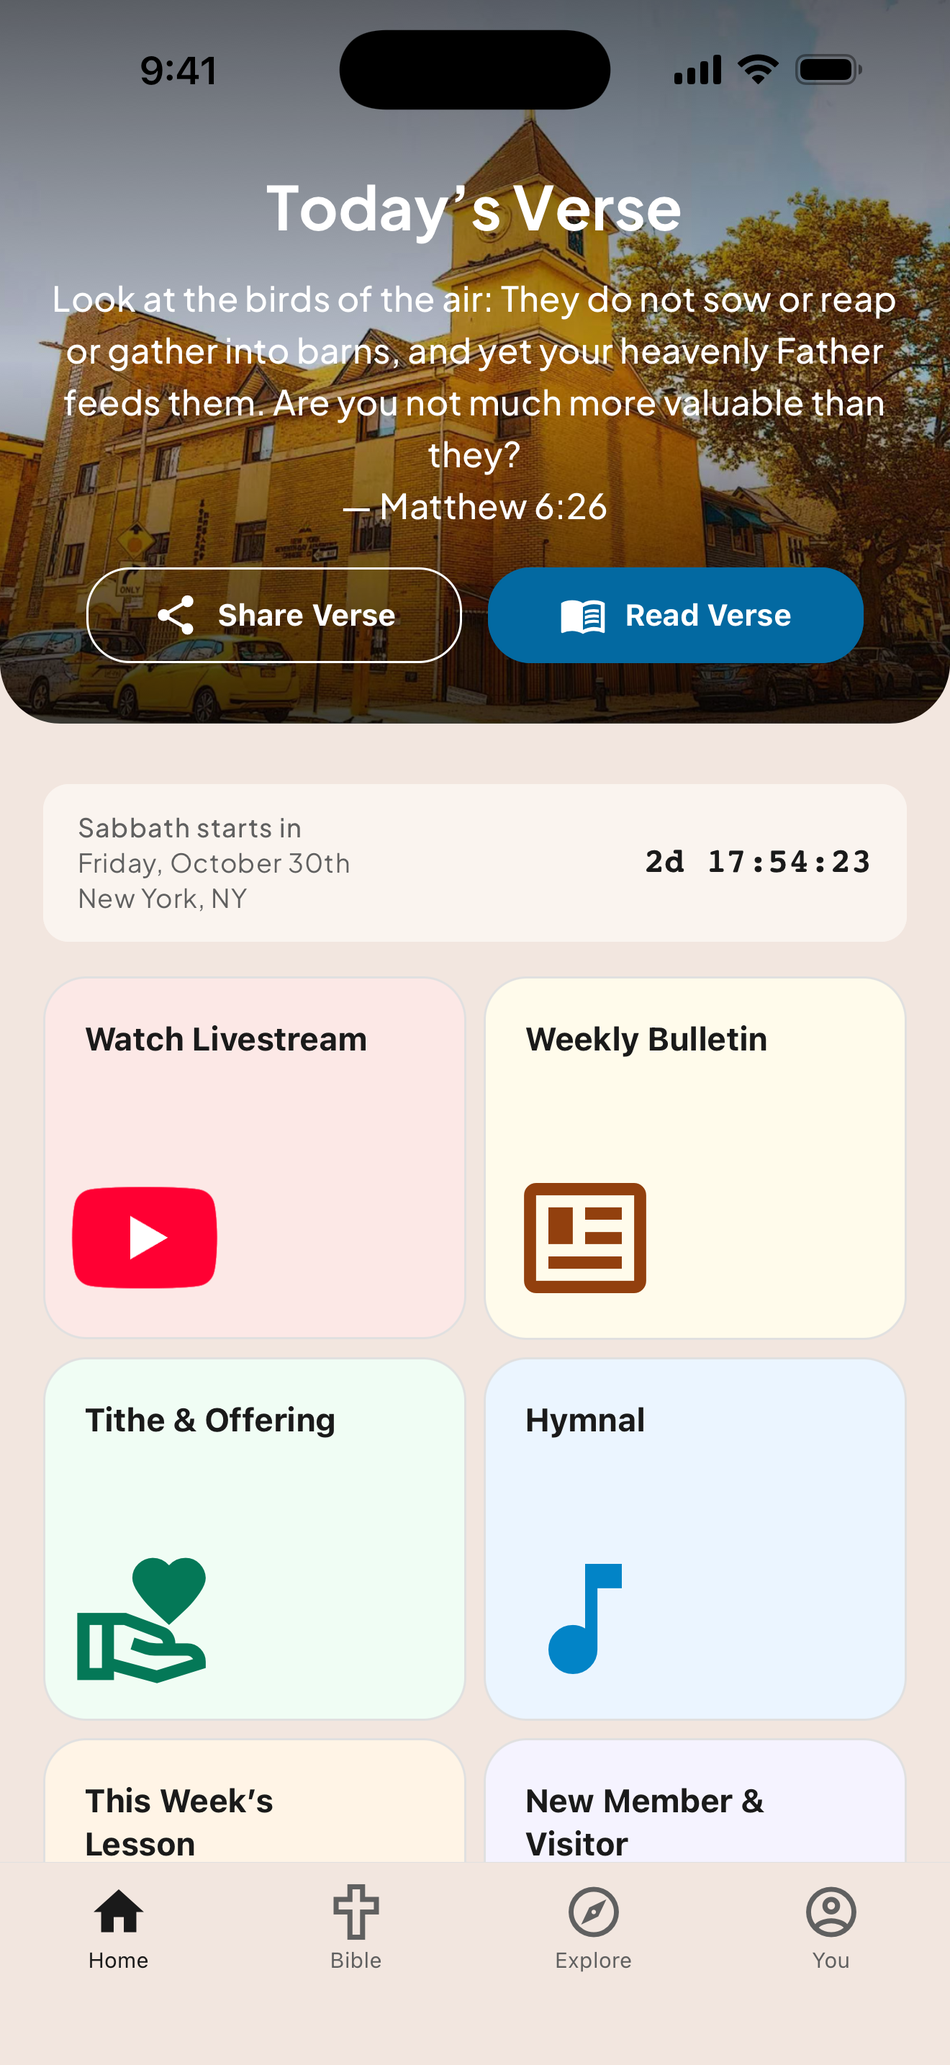
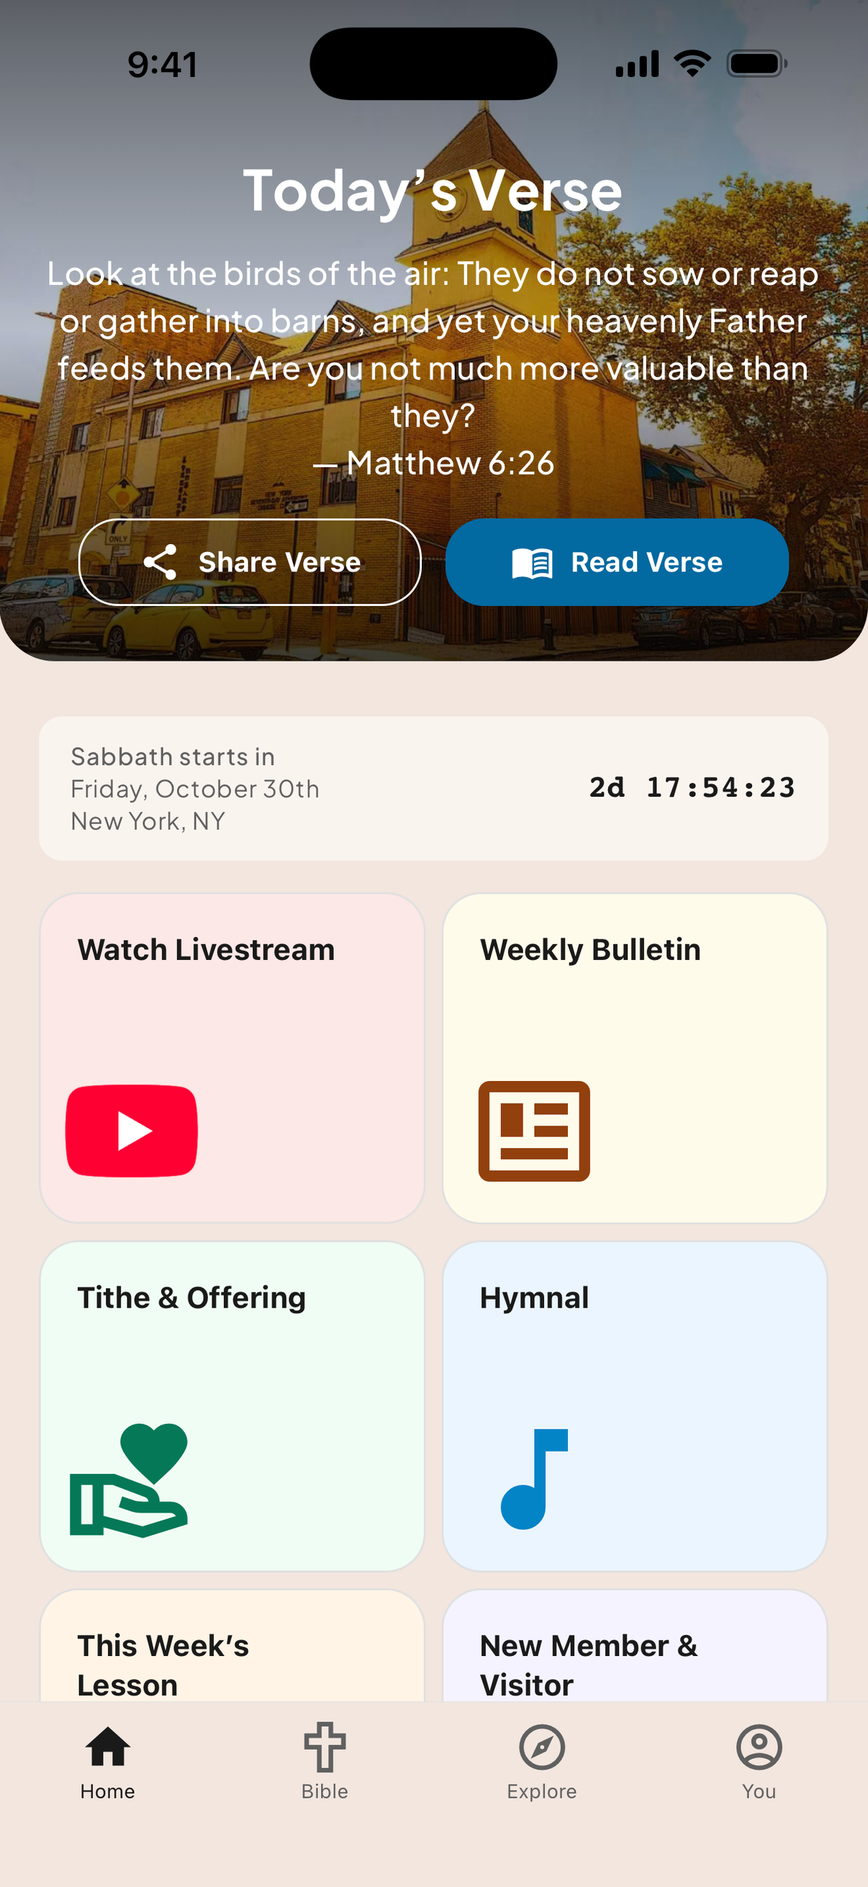
App Store screenshots at the size App Store Connect takes, shorter store descriptions, and version 1.4.1 (#549)
Related to #318

While submitting 1.4.0, App Store Connect rejected all six iPhone
screenshots: "File dimensions are invalid". Its iPhone slot is now
**iPhone with Dynamic Island (medium display)**, which takes only 1179 ×
2556 or 1206 × 2622. Our screenshots were the Simulator's 1320 × 2868,
the 6.9-inch size the 1.3.2 listing used.

## What changes

### App Store screenshots

- **`docs/store-assets/app-store/en-US/`:** the six screenshots, scaled
to 1206 × 2622. These are the files uploaded for 1.4.0. The two sizes
have the same shape to within a pixel, so the scaling crops at most one.
They have no transparency, and `strip-image-metadata.cjs` found nothing
to remove.
- **The iOS key screens** write their `screens/app-store/` copies at
1206 × 2622 (`APP_STORE_SIZE` in `scripts/capture-ios-screens.cjs`), so
the next run's copies are ready to upload.
- The Google Play copies used the same function, so they would have been
scaled too. The shared part, which removes transparency, is now
`writeOpaqueCopy`, and only the App Store copy scales.
  - The test caught this: Play copies still come out at Play's size.
- **`scripts/make-app-store-headers.cjs`** uses the new screenshots'
shape. The headers themselves are unchanged.
- **Docs:** `docs/operations/store-listing.md`,
`docs/store-assets/README.md`, and `docs/operations/native-builds.md`
give the new size and why.
### Shorter store descriptions

The four descriptions named every translation and hymnal, with counts.
[…]

diff --git a/test/screens.test.ts b/test/screens.test.ts
@@ -498,7 +498,8 @@ describe('App Store copies', () => {
 
     await writeAppStoreCopy(source, copy);
     const meta = await sharp(copy).metadata();
-    expect(meta).toMatchObject({ width: 40, height: 80, channels: 3, hasAlpha: false });
+    // At the size App Store Connect's iPhone slot takes (1206 × 2622).
+    expect(meta).toMatchObject({ width: 1206, height: 2622, channels: 3, hasAlpha: false });
     const { data } = await sharp(copy).raw().toBuffer({ resolveWithObject: true });
     expect([...data.subarray(0, 3)]).toEqual([200, 120, 40]);
   });

diff --git a/public/sw.js b/public/sw.js
@@ -2,7 +2,7 @@
 // which sets it together with package.json and app.json. CI checks that they match.
 // It controls the web app's pop-up telling users a new version is available.
 // Don't edit it by hand.
-const VERSION = '1.4.0';
+const VERSION = '1.4.1';
 const CACHE_NAME = `sda-church-v${VERSION}`;
 
 self.addEventListener('install', (event) => {});

diff --git a/docs/operations/store-listing.md b/docs/operations/store-listing.md
@@ -80,38 +80,34 @@ Keywords change only with a new version, so edit them before submitting it.
 bible,adventist,pinyin,hymnal,hymns,sabbath,bulletin,cuv,audio,nyc,mandarin,queens,brooklyn,sermon
 ```
 
-**Description** (both stores, up to 4,000)
+**Description** (both stores, up to 4,000). Kept general on purpose (1.4.1): it names no
+translations, hymnals, or app languages and gives no counts, so adding one changes nothing
+here, and the App Store only lets a description change with a new version. Each version's
+What's New says what's new.
 
 ```text
-The official app of the New York Chinese Seventh-day Adventist Church. Read the Bible in the languages our church family speaks, follow each week's bulletin, and stay connected with church life in Queens and Brooklyn.
+The official app of the New York Chinese Seventh-day Adventist Church: the Bible, the weekly bulletin, and church life in Queens and Brooklyn, in Chinese, English, and more.
 
-BIBLE IN YOUR LANGUAGES
-• Four translations: the Berean Standard Bible (BSB), the 1919 Chinese Union Version in Traditional (CUV) and Simplified (CUVS) characters, and the Spanish Reina-Valera 1909.
-• Dual-language reading shows a second translation under every verse, so you can read Chinese and English side by side.
-• Pinyin with tone marks above Chinese text, for learners and for reading aloud.
-• Search the whole Bible, even offline, or type a reference such as John 3:16 to go straight there.
-• Audio Bible in Mandarin & Cantonese (CUV and CUVS), English (BSB), and other languages, with background playback, lock-screen controls, and a sleep timer.
-• Save and share verses, and tap a verse to see its notes and the original Hebrew or Greek.
-• A verse of the day to start each day.
+BIBLE
+• Read in several translations, one alone or two side by side.
+• Pinyin over Chinese text, for learners and for reading aloud.
+• Search the whole Bible, even offline, and jump to any reference.
+• Listen in Mandarin, Cantonese, and other languages, with background playback and a sleep timer.
+• Save and share verses, with notes and the original Hebrew or Greek.
 
 CHURCH LIFE
-• The weekly bulletin for Queens and Brooklyn: order of worship, Sabbath School, hymns, and Bible readings, for this week and next. Readings open right in the Bible.
-• A countdown to the Sabbath at sunset in New York.
-• Watch the livestream and past sermons on YouTube, listen to the audio archive, and join the Bible study on Zoom.
-• This week's Sabbath School lesson, plus children's lessons by age.
-• Worship times, locations with directions, church history, our ministries, and our pastoral team.
-• For new members and visitors: what Seventh-day Adventists believe and how to join the church.
+• Each week's bulletin: order of worship, Sabbath School, hymns, and readings.
+• The livestream, past sermons, and Bible classes.
+• Sabbath School lessons, including children's lessons by age.
+• Worship times, locations, ministries, and ways to give.
+• For visitors: what Adventists believe and how to join.
 
 HYMNS AND READING
-• Browse and search six hymnals: the Seventh-day Adventist Hymnal (1985) and five Chinese hymnals (505, 506, and three editions of Hymns of Praise 707). Find matching numbers between the English hymnal and the 505 Chinese hymnal.
-• A library of Christian classics, children's books, Ellen G. White's writings, and Adventist pioneer works, opened from their online sources.
+• Browse and search English and Chinese hymnals.
+• A library of Christian classics and Adventist writings.
 
-GIVING
-• See the ways to give, including the church's online giving page on AdventistGiving, which opens in your browser.
-
-MADE FOR EVERYONE
-• English, Traditional Chinese, Simplified Chinese, and Spanish.
-• Text from 100% to 200%, light and dark themes, and screen reader support.
+FOR EVERYONE
+• Large text, light and dark themes, and screen reader support.
 • No account, no ads, and no tracking.
 
 Hymn lyrics and sheet music, library books, lessons, and videos open on their publishers' websites.
@@ -154,35 +150,28 @@ App Store: Chinese (Traditional). Google Play: Chinese (Traditional), `zh-TW`, a
 **Description** (both stores, up to 4,000)
 
 ```text
-紐約華人基督復臨安息日會的官方應用程式。以教會家人熟悉的語言閱讀聖經，查看每週週報，隨時掌握皇后區與布魯克林的教會生活。
+紐約華人基督復臨安息日會的官方應用程式：聖經、每週週報，以及皇后區與布魯克林的教會生活，提供中文、英文等多種語言。
 
-多語言聖經
-• 四種譯本：1919年版和合本繁體版（CUV）與簡體版（CUVS）、Berean Standard Bible（BSB），以及西班牙文 Reina-Valera 1909。
-• 雙語閱讀：每節經文下方顯示第二種譯本，中英對照一目了然。
-• 可在中文經文上方顯示帶聲調的拼音，方便學習與朗讀。
-• 搜尋整本聖經，離線也能用；也可輸入經文出處（如「約3:16」）直接前往。
-• 有聲聖經：國語與粵語（和合本繁體、簡體）、英文（BSB）及其他語言，支援背景播放、鎖定畫面控制與睡眠定時器。
-• 收藏與分享經文；點選經文即可查看註解，以及希伯來文或希臘文原文。
-• 每日一節經文。
+聖經
+• 多種譯本，可單獨閱讀，也可兩種對照。
+• 中文經文上方可顯示拼音，方便學習與朗讀。
+• 搜尋整本聖經，離線也能用，並可直接前往任何經文出處。
+• 國語、粵語及其他語言的有聲聖經，支援背景播放與睡眠定時器。
+• 收藏與分享經文，並可查看註解與希伯來文或希臘文原文。
 
 教會生活
-• 皇后區與布魯克林的每週週報：崇拜程序、安息日學、詩歌與讀經，可查看本週與下週。經文可直接在聖經中開啟。
-• 紐約安息日日落倒數。
-• 在 YouTube 觀看直播與講道重播，收聽講道錄音，並透過 Zoom 參加查經班。
-• 本週安息日學課程，以及依年齡分級的兒童課程。
-• 聚會時間、各聚會地點與路線、教會歷史、事工介紹與牧養團隊。
-• 給新朋友與訪客：認識基督復臨安息日會的信仰，以及如何加入教會。
+• 每週週報：崇拜程序、安息日學、詩歌與讀經。
+• 直播、講道重播與查經班。
+• 安息日學課程，以及依年齡分級的兒童課程。
+• 聚會時間、地點、事工介紹與奉獻方式。
+• 給訪客：認識基督復臨安息日會的信仰，以及如何加入教會。
 
 詩歌與閱讀
-• 瀏覽與搜尋六本詩歌：英文 SDA 詩歌本（1985 年版），以及五本中文詩歌（中文讚美詩 505 版、506 版，與三種版本的頌讚詩歌 707）。可查找英文詩歌本與 505 版中文讚美詩的對應編號。
-• 圖書館收錄基督教經典、兒童讀物、懷愛倫著作與復臨先驅作品，從其線上來源開啟。
-
-奉獻
-• 了解各種奉獻方式，包括在瀏覽器中開啟的教會線上奉獻頁面（AdventistGiving）。
+• 瀏覽與搜尋英文與中文詩歌本。
+• 收錄基督教經典與復臨教會著作的圖書館。
 
 人人適用
-• 支援英文、繁體中文、簡體中文與西班牙文。
-• 字體大小 100% 至 200%，淺色與深色主題，並支援螢幕閱讀器。
+• 可放大字體、淺色與深色主題，並支援螢幕閱讀器。
 • 無需帳號、無廣告、不追蹤。
 
 詩歌歌詞與樂譜、圖書館書籍、課程與影片，皆於其出版者網站開啟。
@@ -225,35 +214,28 @@ App Store: Chinese (Simplified). Google Play: Chinese (Simplified), `zh-CN`. Gen
 **Description** (both stores, up to 4,000)
 
 ```text
-纽约华人基督复临安息日会的官方应用程序。以教会家人熟悉的语言阅读圣经，查看每周周报，随时掌握皇后区与布鲁克林的教会生活。
+纽约华人基督复临安息日会的官方应用程序：圣经、每周周报，以及皇后区与布鲁克林的教会生活，提供中文、英文等多种语言。
 
-多语言圣经
-• 四种译本：1919年版和合本繁体版（CUV）与简体版（CUVS）、Berean Standard Bible（BSB），以及西班牙文 Reina-Valera 1909。
-• 双语阅读：每节经文下方显示第二种译本，中英对照一目了然。
-• 可在中文经文上方显示带声调的拼音，方便学习与朗读。
-• 搜索整本圣经，离线也能用；也可输入经文出处（如“约3:16”）直接前往。
-• 有声圣经：普通话与粤语（和合本繁体、简体）、英文（BSB）及其他语言，支持背景播放、锁屏控制与睡眠定时器。
-• 收藏与分享经文；点击经文即可查看注解，以及希伯来文或希腊文原文。
-• 每日一节经文。
+圣经
+• 多种译本，可单独阅读，也可两种对照。
+• 中文经文上方可显示拼音，方便学习与朗读。
+• 搜索整本圣经，离线也能用，并可直接前往任何经文出处。
+• 普通话、粤语及其他语言的有声圣经，支持背景播放与睡眠定时器。
+• 收藏与分享经文，并可查看注解与希伯来文或希腊文原文。
 
 教会生活
-• 皇后区与布鲁克林的每周周报：崇拜程序、安息日学、诗歌与读经，可查看本周与下周。经文可直接在圣经中打开。
-• 纽约安息日日落倒数。
-• 在 YouTube 观看直播与讲道重播，收听讲道录音，并通过 Zoom 参加查经班。
-• 本周安息日学课程，以及按年龄分级的儿童课程。
-• 聚会时间、各聚会地点与路线、教会历史、事工介绍与牧养团队。
-• 给新朋友与访客：认识基督复临安息日会的信仰，以及如何加入教会。
+• 每周周报：崇拜程序、安息日学、诗歌与读经。
+• 直播、讲道重播与查经班。
+• 安息日学课程，以及按年龄分级的儿童课程。
+• 聚会时间、地点、事工介绍与奉献方式。
+• 给访客：认识基督复临安息日会的信仰，以及如何加入教会。
 
 诗歌与阅读
-• 浏览与搜索六本诗歌：英文 SDA 诗歌本（1985 年版），以及五本中文诗歌（中文赞美诗 505 版、506 版，与三种版本的颂赞诗歌 707）。可查找英文诗歌本与 505 版中文赞美诗的对应编号。
-• 图书馆收录基督教经典、儿童读物、怀爱伦著作与复临先驱作品，从其在线来源打开。
-
-奉献
-• 了解各种奉献方式，包括在浏览器中打开的教会在线奉献页面（AdventistGiving）。
+• 浏览与搜索英文与中文诗歌本。
+• 收录基督教经典与复临教会著作的图书馆。
 
 人人适用
-• 支持英文、繁体中文、简体中文与西班牙文。
-• 字体大小 100% 至 200%，浅色与深色主题，并支持屏幕阅读器。
+• 可放大字体、浅色与深色主题，并支持屏幕阅读器。
 • 无需账号、无广告、不追踪。
 
 诗歌歌词与乐谱、图书馆书籍、课程与视频，均在出版方网站打开。
@@ -301,35 +283,28 @@ biblia,himnario,himnos,sábado,escuela sabática,boletín,audio,reina valera,pin
 **Description** (both stores, up to 4,000)
 
 ```text
-La aplicación oficial de la Iglesia Adventista del Séptimo Día China de Nueva York. Lee la Biblia en los idiomas que habla nuestra familia de la iglesia, sigue el boletín de cada semana y mantente en contacto con la vida de la iglesia en Queens y Brooklyn.
+La aplicación oficial de la Iglesia Adventista del Séptimo Día China de Nueva York: la Biblia, el boletín semanal y la vida de la iglesia en Queens y Brooklyn, en varios idiomas, entre ellos el español.
 
-LA BIBLIA EN TUS IDIOMAS
-• Cuatro traducciones: la Berean Standard Bible (BSB), la Versión Unión China de 1919 en caracteres tradicionales (CUV) y simplificados (CUVS), y la Reina-Valera 1909 en español.
-• La lectura bilingüe muestra una segunda traducción debajo de cada versículo, para leer en chino y en inglés lado a lado.
-• Pinyin con marcas de tono sobre el texto chino, para quienes aprenden el idioma y para leer en voz alta.
-• Busca en toda la Biblia, incluso sin conexión, o escribe una cita como Juan 3:16 para ir directamente allí.
-• Biblia en audio en mandarín y cantonés (CUV y CUVS), en inglés (BSB) y en otros idiomas, con reproducción en segundo plano, controles en la pantalla de bloqueo y temporizador de apagado.
-• Guarda y comparte versículos, y toca un versículo para ver sus notas y el texto original en hebreo o griego.
-• Un versículo del día para comenzar cada día.
+LA BIBLIA
+• Lee en varias traducciones, una sola o dos lado a lado.
+• Pinyin sobre el texto chino, para quienes aprenden el idioma y para leer en voz alta.
+• Busca en toda la Biblia, incluso sin conexión, y ve directo a cualquier cita.
+• Escucha la Biblia en mandarín, cantonés y otros idiomas, con reproducción en segundo plano y temporizador de apagado.
+• Guarda y comparte versículos, con notas y el texto original en hebreo o griego.
 
 VIDA DE IGLESIA
-• El boletín semanal de Queens y Brooklyn: orden del culto, Escuela Sabática, himnos y lecturas bíblicas, de esta semana y de la próxima. Las lecturas se abren directamente en la Biblia.
-• Una cuenta regresiva hasta el comienzo del sábado, a la puesta del sol en Nueva York.
-• Mira la transmisión en vivo y los sermones anteriores en YouTube, escucha el archivo de audio y únete al estudio bíblico por Zoom.
-• La lección de Escuela Sabática de esta semana, además de lecciones infantiles por edad.
-• Horarios de culto, ubicaciones con indicaciones, la historia de la iglesia, nuestros ministerios y nuestro equipo pastoral.
-• Para nuevos miembros y visitantes: lo que creen los adventistas del séptimo día y cómo unirse a la iglesia.
+• El boletín de cada semana: orden del culto, Escuela Sabática, himnos y lecturas.
+• La transmisión en vivo, sermones anteriores y clases bíblicas.
+• Lecciones de Escuela Sabática, incluidas lecciones infantiles por edad.
+• Horarios de culto, ubicaciones, ministerios y formas de dar.
+• Para visitantes: lo que creen los adventistas del séptimo día y cómo unirse a la iglesia.
 
 HIMNOS Y LECTURA
-• Explora y busca en seis himnarios: el himnario adventista en inglés (Seventh-day Adventist Hymnal, 1985) y cinco himnarios chinos (505, 506 y tres ediciones de Hymns of Praise 707). Encuentra los números equivalentes entre el himnario en inglés y el himnario chino 505.
-• Una biblioteca de clásicos cristianos, libros infantiles, escritos de Elena G. de White y obras de los pioneros adventistas, que se abren desde sus fuentes en línea.
-
-DIEZMOS Y OFRENDAS
-• Consulta las formas de dar, incluida la página de ofrendas en línea de la iglesia en AdventistGiving, que se abre en tu navegador.
+• Explora y busca en himnarios en inglés y en chino.
+• Una biblioteca de clásicos cristianos y escritos adventistas.
 
 PARA TODOS
-• Inglés, chino tradicional, chino simplificado y español.
-• Texto del 100 % al 200 %, temas claro y oscuro, y compatibilidad con lectores de pantalla.
+• Texto ampliable, temas claro y oscuro, y compatibilidad con lectores de pantalla.
 • Sin cuenta, sin anuncios y sin rastreo.
 
 Las letras y partituras de los himnos, los libros de la biblioteca, las lecciones y los videos se abren en los sitios web de sus editores.
@@ -400,16 +375,19 @@ transparency both stores reject. Replace them there whenever the stores get new 
   does both. Play also needs a 1024 × 500 feature
   graphic, described in [Store listing assets](play-console-answers.md#store-listing-assets),
   and the 512 × 512 icon (`public/icon-512x512.png`).
-- **App Store:** iPhone 6.9-inch screenshots only. The app is iPhone-only
+- **App Store:** iPhone screenshots only, at 1206 × 2622. App Store Connect's iPhone slot,
+  **iPhone with Dynamic Island (medium display)**, takes only the 6.1- and 6.3-inch sizes
+  (1179 × 2556 or 1206 × 2622) and rejects 1320 × 2868, which the 1.3.2 listing used.
+  The app is iPhone-only
   (`supportsTablet: false` in `app.json`), so App Store Connect asks for no iPad
   screenshots once the version uses a build made with that setting; iPads still install
   it and run it in iPhone mode. The current set comes from the key screens of the
-  **iOS key screens** run on a release PR, which are 1320 × 2868 with a clean status bar
-  (9:41, full battery and signal); see [Key screens](native-builds.md#key-screens).
-  Screenshots from a real iPhone work too. A Plus or Pro Max already takes the 6.9-inch
-  size (1290 × 2796 or 1320 × 2868); a smaller iPhone's screenshots need resizing to
-  1290 × 2796, which crops only a few pixels. The first three screenshots also show on
-  the install sheet, so lead with the strongest.
+  **iOS key screens** run on a release PR, whose App Store copies are scaled from the
+  Simulator's 1320 × 2868 to 1206 × 2622, with a clean status bar (9:41, full battery and
+  signal); see [Key screens](native-builds.md#key-screens). Screenshots from a real
+  iPhone work too: a 6.1- or 6.3-inch iPhone takes them at the right size, and a larger
+  one's need scaling to 1206 × 2622, which crops at most a pixel. The first three
+  screenshots also show on the install sheet, so lead with the strongest.
 - **App Store header:** one per language, in
   [`docs/store-assets/app-store/header/`](../store-assets/README.md). Upload each under
   **Header and Search Results → Header** with that language selected, or through the

diff --git a/docs/operations/native-builds.md b/docs/operations/native-builds.md
@@ -917,10 +917,11 @@ Each push needs a new approval, and the job fails if the environment doesn't req
 one. [Approving the screenshots](admin-runbook.md#approving-the-screenshots) has the
 steps and the setup.
 
-**App Store screenshots.** The images are 1320 × 2868, the App Store's 6.9-inch iPhone
-size. The shots listed under `appStore` in the screen list are also copied, numbered in
-upload order, to `screens/app-store/<language>/`, without the transparency the
-Simulator's PNGs have, which App Store Connect rejects. They're ready to upload; see
+**App Store screenshots.** The Simulator's images are 1320 × 2868. The shots listed under
+`appStore` in the screen list are also copied, numbered in upload order, to
+`screens/app-store/<language>/`, scaled to 1206 × 2622 and without the transparency the
+Simulator's PNGs have: App Store Connect's iPhone slot, **iPhone with Dynamic Island
+(medium display)**, takes only 1179 × 2556 or 1206 × 2622, and rejects transparency. They're ready to upload; see
 [Store assets](../store-assets/README.md). When to refresh the stores' screenshots is in
 step 2 of the runbook's [Uploading to the stores](admin-runbook.md#uploading-to-the-stores).
 

diff --git a/docs/store-assets/README.md b/docs/store-assets/README.md
@@ -18,8 +18,8 @@ are captured, their sizes, and what they may show are in
   Home, the Bible in English and Chinese, the audio settings with the CUV's audio
   languages, the Bible in the dark theme, Explore, and the Library. The other languages'
   listings show these too.
-- `app-store/en-US/`: the six iPhone screenshots, in upload order, at the 6.9-inch size
-  (1320 × 2868): Home, the Bible in English and Chinese, the Bible in Chinese and
+- `app-store/en-US/`: the six iPhone screenshots, in upload order, at 1206 × 2622, the
+  size App Store Connect's iPhone slot takes: Home, the Bible in English and Chinese, the Bible in Chinese and
   English with the Chinese interface, the Bible in the dark theme, Explore, and the
   Library. Home comes first: the first three appear on the App Store's install sheets,
   and Home shows what the app is. The other languages' listings show these too.
